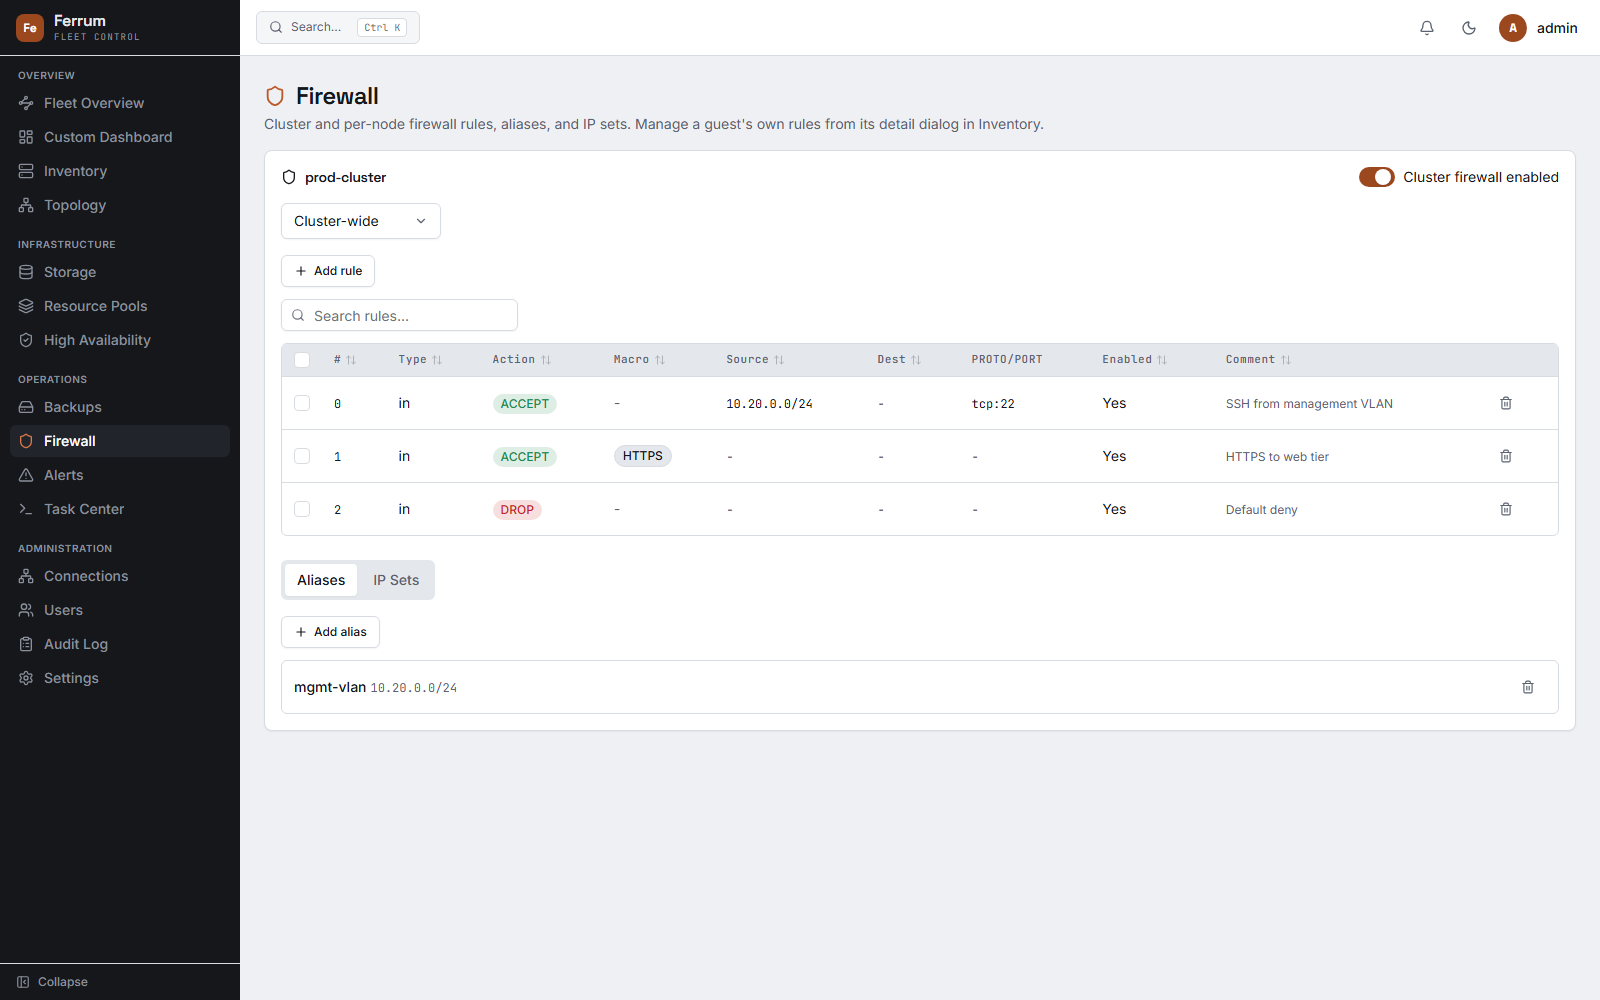
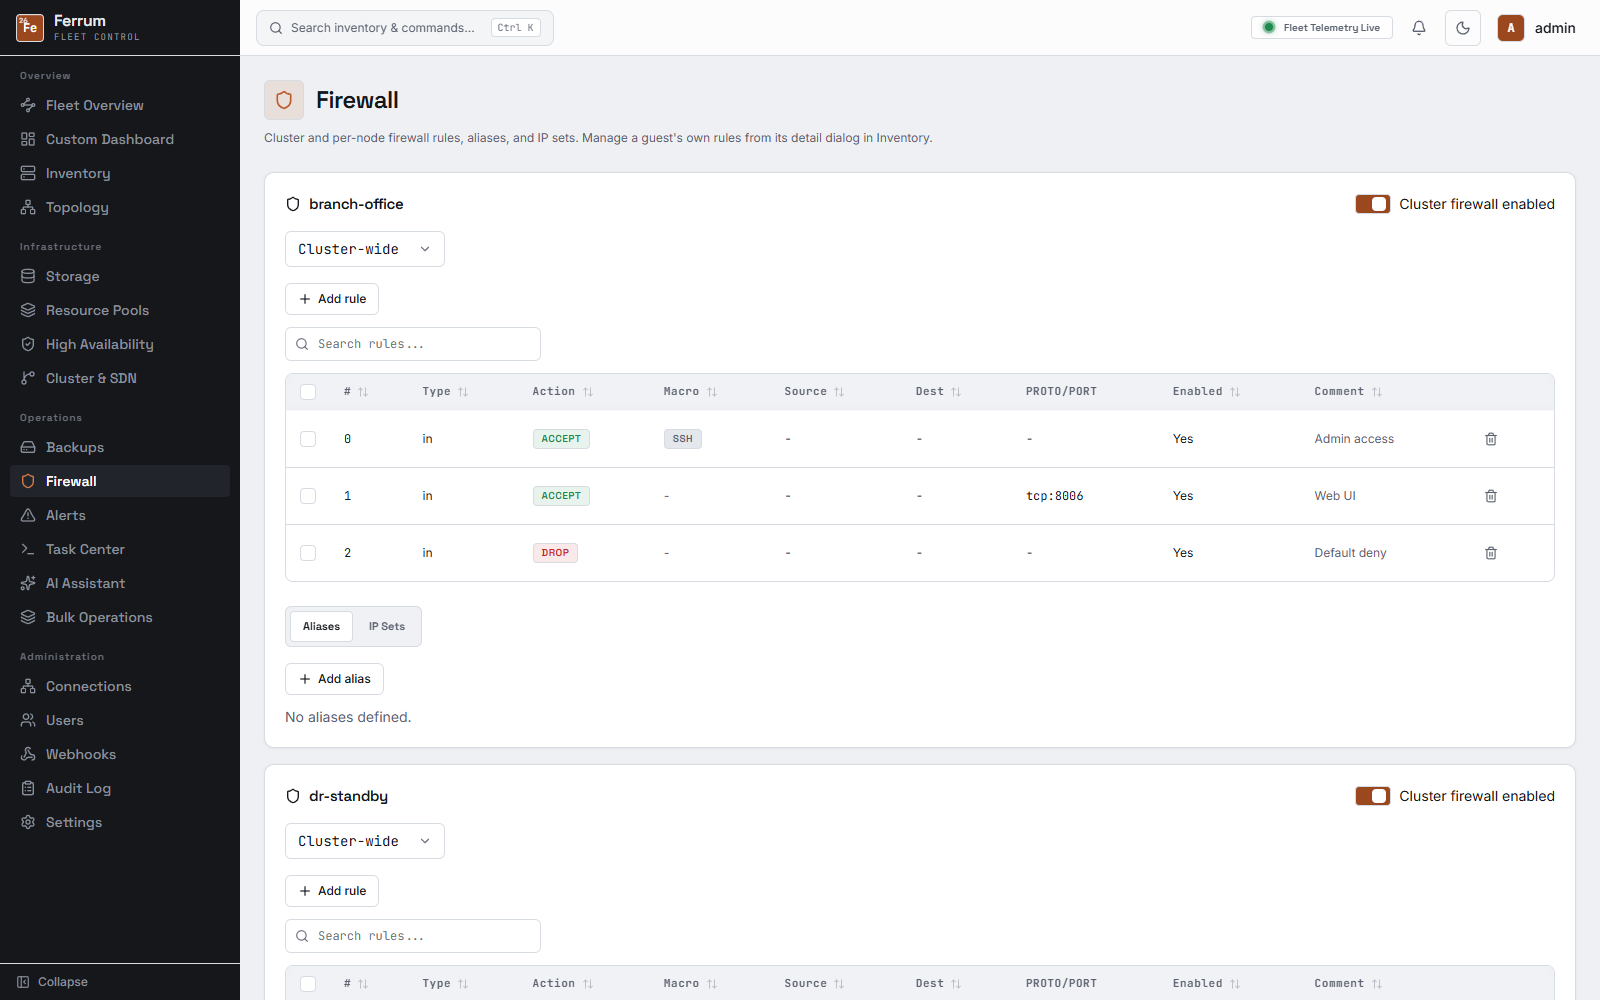
Refresh screenshots against a richer, multi-connection fleet
The old screenshots (prod-cluster, 3 nodes, 16 guests) predated Cluster &
SDN, AI Assistant, Bulk Operations, Webhooks, and the accent-color/look
presets added since — none of it showed up in the README. Recaptured every
fleet-data screenshot (dashboard, inventory, topology, storage, backups,
HA, firewall, connections) against a richer fleet: 3 connections (two
clusters, one standalone host), 6 nodes, 26 VMs/LXCs, Ceph + NFS storage.
settings-appearance also refreshed (now shows the amber/rose/teal accents).
setup.png is untouched — it's fleet-data-independent and regenerating it
would mean resetting a real admin account.

Updated the screenshots section caption to match the new fleet size.

diff --git a/README.md b/README.md
@@ -19,7 +19,7 @@ Fleet control for Proxmox VE — a single dashboard for every cluster and standa
 
 ## Screenshots
 
-Captured against a mock Proxmox cluster (`prod-cluster`: 3 nodes, 16 VMs/LXCs, Ceph + NFS storage) to show the UI populated the way it looks on a real fleet. Click any thumbnail for the full-size image.
+A populated fleet — 3 connections, 6 nodes, 26 VMs/LXCs across two clusters and a standalone host, with Ceph and NFS storage. Click any thumbnail for the full-size image.
 
 <table>
 <tr>
